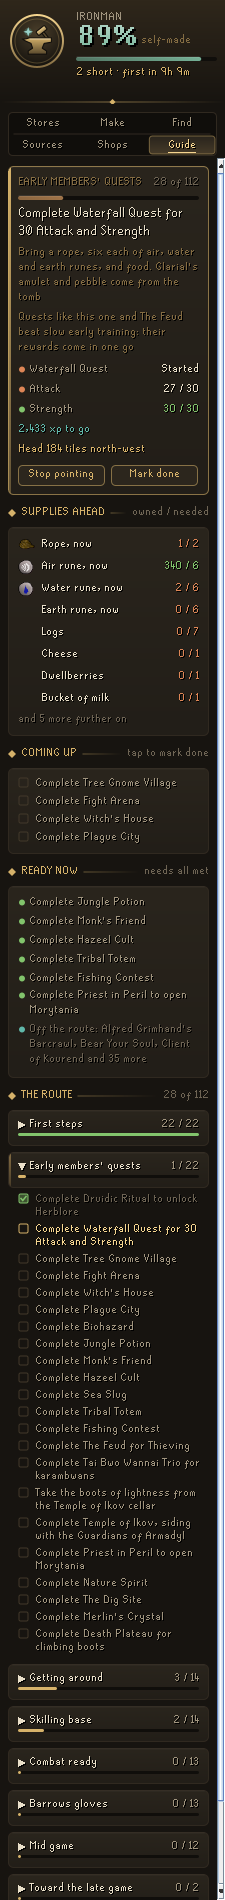
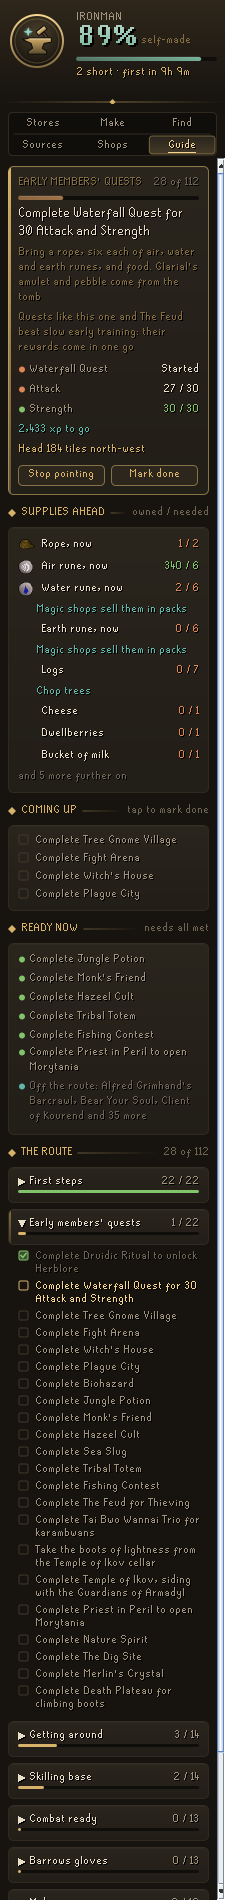
Guide: where to get short supplies, and quests your stores unlock (#10)

diff --git a/src/main/java/com/codex/ironworks/Guides.java b/src/main/java/com/codex/ironworks/Guides.java
@@ -248,6 +248,7 @@ final class Guides
 		Map<String, View.Found> owned, Workshop workshop, Map<Skill, Integer> xp)
 	{
 		List<View.StepView> ready = new ArrayList<>();
+		List<View.StepView> unlock = new ArrayList<>();
 		Set<String> listed = new java.util.HashSet<>();
 		for (View.StepView n : g.next)
 		{
@@ -262,9 +263,22 @@ final class Guides
 			{
 				continue;
 			}
-			if (questReady(s, a) && ready.size() < READY)
+			if (questReady(s, a))
 			{
-				ready.add(step(route, s, ticked, a, owned, workshop, xp, false));
+				if (ready.size() < READY)
+				{
+					ready.add(step(route, s, ticked, a, owned, workshop, xp, false));
+				}
+			}
+			else if (unlock.size() < READY)
+			{
+				List<String> banked = banked(s, a, workshop, xp);
+				if (banked != null)
+				{
+					View.StepView v = step(route, s, ticked, a, owned, workshop, xp, false);
+					v.hints = banked;
+					unlock.add(v);
+				}
 			}
 		}
 		List<String> others = new ArrayList<>();
@@ -277,7 +291,57 @@ final class Guides
 			}
 		}
 		g.ready = ready;
+		g.unlock = unlock;
 		g.readyElse = others;
+	}
+
+	/**
+	 * The levels a quest step lacks when the stores hold the experience for every one of them, such as
+	 * "Herblore 52"; null when anything else stands in the way.
+	 */
+	static List<String> banked(Route.Step s, Route.Account a, Workshop workshop, Map<Skill, Integer> xp)
+	{
+		Map<String, Integer> levels = new LinkedHashMap<>(s.skills);
+		int qp = s.questPoints;
+		for (String q : s.quests)
+		{
+			if (a.questDone(q))
+			{
+				continue;
+			}
+			QuestReqs.Req req = REQS.of(q);
+			for (String first : req.quests)
+			{
+				if (!a.questDone(first))
+				{
+					return null;
+				}
+			}
+			req.skills.forEach((k, v) -> levels.merge(k, v, Math::max));
+			qp = Math.max(qp, req.questPoints);
+		}
+		if (a.questPoints() < qp)
+		{
+			return null;
+		}
+		List<String> out = new ArrayList<>();
+		for (Map.Entry<String, Integer> e : levels.entrySet())
+		{
+			if (a.level(e.getKey()) >= e.getValue())
+			{
+				continue;
+			}
+			Skill skill = skill(e.getKey());
+			Integer now = skill == null ? null : xp.get(skill);
+			Workshop.Plan plan = skill == null ? null : workshop.plan(skill);
+			if (now == null || plan == null || e.getValue() > Experience.MAX_REAL_LEVEL
+				|| plan.xp < Experience.getXpForLevel(e.getValue()) - now)
+			{
+				return null;
+			}
+			out.add(e.getKey() + " " + e.getValue());
+		}
+		return out.isEmpty() ? null : out;
 	}
 
 	/** True when nothing stands between the account and every quest the step asks for. */

diff --git a/src/main/java/com/codex/ironworks/Views.java b/src/main/java/com/codex/ironworks/Views.java
@@ -355,6 +355,62 @@ final class Views
 		}
 	}
 
+	/**
+	 * Where to get what the route is short of: a shop you have bought from that sells it first, else the
+	 * best way to get more, with how long the shortfall takes at your own pace when Ironworks knows it.
+	 */
+	static void sources(View view, Works works, Catalogue.Lookup lookup, Map<Skill, Integer> levels)
+	{
+		if (view.guide == null)
+		{
+			return;
+		}
+		for (View.NeedView n : view.guide.needs)
+		{
+			long short_ = n.need - n.have;
+			if (short_ <= 0)
+			{
+				continue;
+			}
+			Catalogue.Match m = lookup.match(n.item);
+			String store = m == null ? n.item : m.store;
+			String shop = null;
+			for (View.ShopView sv : view.shops)
+			{
+				for (View.WareView w : sv.wares)
+				{
+					if (n.item.equalsIgnoreCase(w.name) || store.equalsIgnoreCase(w.store))
+					{
+						shop = sv.name;
+						break;
+					}
+				}
+				if (shop != null)
+				{
+					break;
+				}
+			}
+			if (shop != null)
+			{
+				n.how = "Sold at " + shop;
+				continue;
+			}
+			for (View.WayView w : getting(store, n.icon, works, lookup, levels).ways)
+			{
+				if (!w.open)
+				{
+					continue;
+				}
+				n.how = w.text;
+				if (w.perHour > 0)
+				{
+					n.how += ", about " + com.codex.ironworks.ui.Format.duration(Math.round(short_ / w.perHour * 3_600_000)) + " at your pace";
+				}
+				break;
+			}
+		}
+	}
+
 	/** The ways to get more of a store: the player's own paces first, then what they have the levels for. */
 	static View.Getting getting(String store, int icon, Works works, Catalogue.Lookup lookup, Map<Skill, Integer> levels)
 	{

diff --git a/src/test/java/com/codex/ironworks/GuidesTest.java b/src/test/java/com/codex/ironworks/GuidesTest.java
@@ -18,6 +18,7 @@ import net.runelite.api.Quest;
 import net.runelite.api.Skill;
 import static org.junit.Assert.assertEquals;
 import static org.junit.Assert.assertNotNull;
+import static org.junit.Assert.assertNull;
 import static org.junit.Assert.assertTrue;
 import org.junit.Test;
 
@@ -135,6 +136,24 @@ public class GuidesTest
 		}
 		assertTrue(Guides.met("Cook's Assistant", account(new HashSet<>(), 1)));
 		assertTrue(!Guides.met("Regicide", account(new HashSet<>(), 99)));
+	}
+
+	@Test
+	public void storesThatHoldTheLevelUnlockAQuest()
+	{
+		Route r = Route.parse(Collections.singletonList("A | Brew for a quest | quest:Cook's Assistant; skill:Herblore 40"));
+		Map<String, Long> stocks = new HashMap<>();
+		stocks.put("Ranarr weed", 500L);
+		stocks.put("Vial of water", 500L);
+		stocks.put("Snape grass", 500L);
+		Map<Skill, Integer> levels = new EnumMap<>(Skill.class);
+		levels.put(Skill.HERBLORE, 38);
+		Workshop w = Workshop.plan(stocks, Catalogue.standard(), levels, Altar.GILDED);
+		Map<Skill, Integer> xp = new EnumMap<>(Skill.class);
+		xp.put(Skill.HERBLORE, Experience.getXpForLevel(38));
+		Route.Account a = account(new HashSet<>(), 38);
+		assertEquals(Collections.singletonList("Herblore 40"), Guides.banked(r.steps().get(0), a, w, xp));
+		assertNull(Guides.banked(r.steps().get(0), a, Workshop.empty(), xp));
 	}
 
 	@Test

diff --git a/src/main/java/com/codex/ironworks/ui/IronworksPanel.java b/src/main/java/com/codex/ironworks/ui/IronworksPanel.java
@@ -850,6 +850,10 @@ public class IronworksPanel extends PluginPanel
 				String figure = Format.amount(n.have) + " / " + Format.amount(n.need);
 				in.add(new IconLine(n.icon, n.item + (n.stepsAway == 0 ? ", now" : ""), figure, icons, Theme.TEXT,
 					enough ? Theme.GREEN : Theme.EMBER));
+				if (!enough && n.how != null)
+				{
+					in.add(new Line("      " + n.how, null, null, Theme.TEAL, Theme.TEAL));
+				}
 			}
 			if (g.needs.size() > 8)
 			{
@@ -872,7 +876,7 @@ public class IronworksPanel extends PluginPanel
 			p.add(card);
 		}
 
-		if (!g.ready.isEmpty() || !g.readyElse.isEmpty())
+		if (!g.ready.isEmpty() || !g.readyElse.isEmpty() || !g.unlock.isEmpty())
 		{
 			p.add(new SectionHeader("Ready now", "needs all met"));
 			Card card = new Card(new BorderLayout());
@@ -880,6 +884,12 @@ public class IronworksPanel extends PluginPanel
 			for (View.StepView s : g.ready)
 			{
 				in.add(new Line(s.text, null, Theme.GREEN, Theme.TEXT_MUTED, Theme.TEXT_MUTED));
+			}
+			for (View.StepView s : g.unlock)
+			{
+				in.add(new Line(s.text, null, Theme.GOLD, Theme.TEXT_MUTED, Theme.TEXT_MUTED));
+				in.add(new Line("   Train " + String.join(", ", s.hints) + " from your stores first: see Make", null, null,
+					Theme.GOLD_DIM, Theme.GOLD_DIM));
 			}
 			if (!g.readyElse.isEmpty())
 			{

diff --git a/src/test/java/com/codex/ironworks/ViewsTest.java b/src/test/java/com/codex/ironworks/ViewsTest.java
@@ -66,6 +66,29 @@ public class ViewsTest
 	}
 
 	@Test
+	public void routeSuppliesSayWhereToGetThem()
+	{
+		Works w = feathers();
+		View v = Views.build(w, Catalogue.standard(), 10, 2, NOW, TODAY, s -> 1);
+		v.guide = new View.GuideView();
+		View.NeedView feather = new View.NeedView();
+		feather.item = "Feather";
+		feather.need = 5000;
+		feather.have = 1500;
+		View.NeedView shark = new View.NeedView();
+		shark.item = "Shark";
+		shark.need = 10;
+		shark.have = 300;
+		View.NeedView rope = new View.NeedView();
+		rope.item = "Rope";
+		rope.need = 1;
+		v.guide.needs = java.util.Arrays.asList(feather, shark, rope);
+		Views.sources(v, w, Catalogue.standard(), Collections.emptyMap());
+		assertEquals("Sold at Gerrant's Fishy Business", feather.how);
+		assertNull(shark.how);
+	}
+
+	@Test
 	public void hiddenStoresAreLeftOut()
 	{
 		View v = Views.build(feathers(), Catalogue.with("", "feather"), 10, 2, NOW, TODAY, s -> 1);

diff --git a/src/main/java/com/codex/ironworks/ui/View.java b/src/main/java/com/codex/ironworks/ui/View.java
@@ -234,6 +234,8 @@ public final class View
 		public String way;
 		/** Route quests further on whose every requirement the account already meets. */
 		public List<StepView> ready = Collections.emptyList();
+		/** Route quests held back only by levels the stores already hold the experience for. */
+		public List<StepView> unlock = Collections.emptyList();
 		/** Other quests, off the route, the account could start now. */
 		public List<String> readyElse = Collections.emptyList();
 		/** Every supply the steps not yet done use up, in route order, for Find. */
@@ -300,5 +302,7 @@ public final class View
 		public long have;
 		/** The first step that needs it, counted from the step in hand (0). */
 		public int stepsAway;
+		/** Where to get what is short, from the shops you use and your own pace, or null. */
+		public String how;
 	}
 }

diff --git a/src/main/java/com/codex/ironworks/CodexIronworksPlugin.java b/src/main/java/com/codex/ironworks/CodexIronworksPlugin.java
@@ -1367,6 +1367,7 @@ public class CodexIronworksPlugin extends Plugin
 		if (works != null)
 		{
 			built.guide = Guides.build(route, works.ticked(), guide.account(), works.isFollowing(), built.found, built.workshop, xp);
+			Views.sources(built, works, lookup, levels);
 			if (loggedIn && built.guide.current != null)
 			{
 				Route.Step step = route.steps().get(indexOf(built.guide.current.key));

diff --git a/README.md b/README.md
@@ -28,7 +28,7 @@ It works for every kind of ironman (regular, hardcore, ultimate and group) and f
 - **Prices, learned.** Shops charge more for each item bought as the stock falls. Ironworks learns each item's first price and how fast it climbs from what you paid, shows the range on the shop card, and works out the cost of your whole shopping list when you hop worlds once the price is a tenth up.
 - **Restock times, learned.** Ironworks watches shop stock climb back after you buy and learns how long each item takes to restock, per item and per shop. Shops keep stock per world, so when you hop it remembers each world you emptied and says when each will be full again.
 - **Shop runs.** Shop visits close together are one run: the shops, how many worlds you hopped, what you bought and what it cost, and how long it took.
-- **Guide tab.** A route for ironmen from a fresh account through the early members' quests, getting around, a skilling base, combat, Barrows gloves, the mid game and on toward the late game: about 135 steps, shaped after the OSRS Wiki's ironman guide. Steps tick themselves as the game shows them done (quests finished or started, levels, quest points, and items Ironworks has seen you own), and a step you did another way can be marked done. Open any part of *The route* to see every step in it and tick or undo any of them; the steps the game has confirmed are sealed. The step in hand shows what the game checks and where you stand ("Attack 27 / 30"), and for a quest or diary, every unfinished quest down its chain and the levels they ask for, and when your stores hold the experience for a level the step needs, it says so. *Supplies ahead* adds up what the next steps use (rope, runes, logs, bones) against everything you own, so you can gather it before you need it. *Ready now* lists the quests further on that you already meet every requirement for, and how many quests off the route you could start, and a search on the Find tab also lists the route steps that use what you searched for.
+- **Guide tab.** A route for ironmen from a fresh account through the early members' quests, getting around, a skilling base, combat, Barrows gloves, the mid game and on toward the late game: about 135 steps, shaped after the OSRS Wiki's ironman guide. Steps tick themselves as the game shows them done (quests finished or started, levels, quest points, and items Ironworks has seen you own), and a step you did another way can be marked done. Open any part of *The route* to see every step in it and tick or undo any of them; the steps the game has confirmed are sealed. The step in hand shows what the game checks and where you stand ("Attack 27 / 30"), and for a quest or diary, every unfinished quest down its chain and the levels they ask for, and when your stores hold the experience for a level the step needs, it says so. *Supplies ahead* adds up what the next steps use (rope, runes, logs, bones) against everything you own, so you can gather it before you need it, and says where to get what you lack: a shop you already buy from, or the best way to get more with how long it takes at your own measured pace. *Ready now* lists the quests further on that you already meet every requirement for, the ones only your stores stand between you and ("Train Herblore 52 from your stores first"), and how many quests off the route you could start, and a search on the Find tab also lists the route steps that use what you searched for.
 - **Pointing the way.** Press *Point the way* and the game's hint arrow points at the person or place the step needs once it is near, what the step asks you to click is lit in gold, Quest Helper style: the person who starts a quest, the people and objects it names, items to buy in a shop, pick up or use, and the chat option to choose, and, if you have the Shortest Path plugin and turn on *Shortest Path*, it draws the way there. While you follow, a plaque in the game view shows the step in hand, what the game still waits to see, the supplies it still lacks, and which way to head (*Step plaque*).
 - **Shop plaque.** At a shop you have used before, a plaque in the game view shows what your stores need from it ("Buy 12 for 10h of play"), the stock now on this world, and how long it takes to fill (*Shop plaque*).
 - **Low stores at the bank.** When you open your bank, a chat line names up to three stores that will run out within your *Running low* time, once a session each (*Low stores in chat*).
